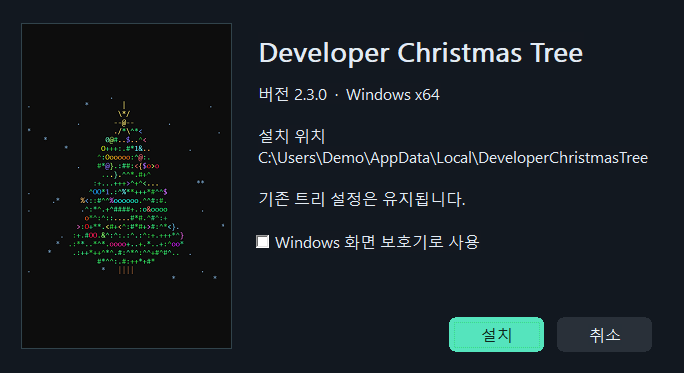
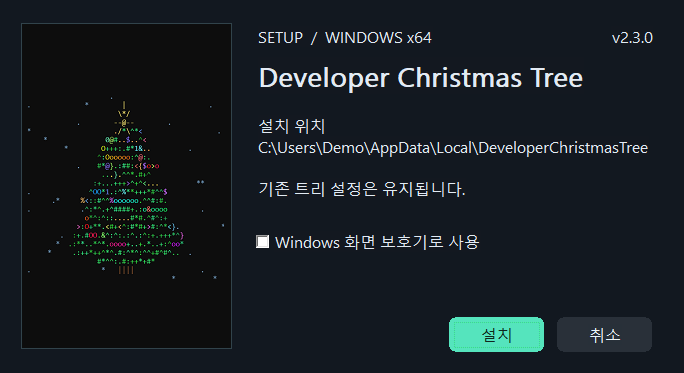
style: use bilingual guidance and put versions in window headers

diff --git a/scripts/windows_smoke.py b/scripts/windows_smoke.py
@@ -113,7 +113,8 @@ def verify_app(app, env, config, version):
     process = start(app, env)
     try:
         hwnd = window(process, "DCTMain")
-        assert version.removesuffix(".0") in text(hwnd)
+        assert text(hwnd) == "Developer Christmas Tree"
+        assert text(USER32.GetDlgItem(hwnd, 161)) == "v" + version
         combo = USER32.GetDlgItem(hwnd, 160)
         assert combo and USER32.SendMessageW(combo, 0x146, 0, 0) == 3
         for index, label in [(1, "1080p"), (2, "4K")]:
@@ -136,10 +137,12 @@ def verify_app(app, env, config, version):
         stop(process)
 
 
-def wizard(setup, env, complete=False, saver=False, fail=False):
+def wizard(setup, env, version, complete=False, saver=False, fail=False):
     process = start(setup, env)
     try:
         hwnd = window(process, "DCTSetup")
+        assert version not in text(hwnd)
+        assert text(USER32.GetDlgItem(hwnd, 104)) == "v" + version
         primary = USER32.GetDlgItem(hwnd, 101)
         assert text(primary) == "설치"
         if complete:
@@ -232,7 +235,7 @@ def verify_setup(setup, app, ui_only, version, legacy):
         destination = local / "DeveloperChristmasTree"
         config = destination / "settings.json"
         baseline = registry(UNINSTALL, "InstallLocation")
-        wizard(setup, env)
+        wizard(setup, env, version)
         assert registry(UNINSTALL, "InstallLocation") == baseline and not destination.exists()
         print("설치 화면 표시 및 취소 통과", flush=True)
         if ui_only:
@@ -244,7 +247,7 @@ def verify_setup(setup, app, ui_only, version, legacy):
         invalid_menu = roaming / "Microsoft"
         invalid_menu.parent.mkdir(parents=True)
         invalid_menu.write_text("시작 메뉴 경로 실패 검증", encoding="utf-8")
-        wizard(setup, env, complete=True, fail=True)
+        wizard(setup, env, version, complete=True, fail=True)
         assert not list(destination.glob("*"))
         assert registry(UNINSTALL, "InstallLocation") is None and desktop_values() == desktop
         invalid_menu.unlink()
@@ -252,7 +255,7 @@ def verify_setup(setup, app, ui_only, version, legacy):
         installed_app = destination / "DeveloperChristmasTree.exe"
         scr = destination / "DeveloperChristmasTree.scr"
         try:
-            wizard(setup, env, complete=True, saver=True)
+            wizard(setup, env, version, complete=True, saver=True)
             assert scr.read_bytes() == installed_app.read_bytes()
             assert SHELL.ExtractIconExW(str(scr), -1, None, None, 0) > 0
             assert registry(UNINSTALL, "DisplayVersion")[0] == version
@@ -275,7 +278,7 @@ def verify_setup(setup, app, ui_only, version, legacy):
                 assert registry(UNINSTALL, "DisplayVersion")[0] == "2.2.0"
                 original = b'{"Theme":"Ice Blue","Message":"holiday","FPS":30}\n'
                 config.write_bytes(original)
-                wizard(setup, env, complete=True)
+                wizard(setup, env, version, complete=True)
                 assert registry(UNINSTALL, "DisplayVersion")[0] == version
                 assert config.read_bytes() == original
                 assert installed_app.read_bytes() == app.read_bytes()

diff --git a/win_windows.go b/win_windows.go
@@ -330,6 +330,7 @@ const (
 	idLowPower    = 158
 	idCodeStyle   = 159
 	idResolution  = 160
+	idVersion     = 161
 )
 
 func selectCombo(id int, items []string, s string) {
@@ -529,8 +530,7 @@ func setupUI() {
 	uiScale = settingsScale(work, int(call(u, "GetDpiForSystem")))
 	x := int(work.L) + (int(work.R-work.L)-sc(1120))/2
 	y := int(work.T) + (int(work.B-work.T)-sc(770))/2
-	versionLabel := strings.TrimSuffix(version, ".0")
-	mainwin = window("DCTMain", "Christmas Tree  •  "+versionLabel, 0x06CA0000, 0, x, y, sc(1120), sc(770), 0, 0)
+	mainwin = window("DCTMain", "Developer Christmas Tree", 0x06CA0000, 0, x, y, sc(1120), sc(770), 0, 0)
 	if mainwin == 0 {
 		box(0, "설정 창을 열 수 없어요.", 0x10)
 		return
@@ -541,10 +541,11 @@ func setupUI() {
 	corner := int32(2)
 	call(dwm, "DwmSetWindowAttribute", mainwin, 33, ptr(&corner), 4)
 	makeSettingsFonts()
-	heading("Christmas Tree", 25, 13, 285, 37, titleFont)
-	label(versionLabel, 312, 25, 100, 23)
-	heading("미리보기", 30, 78, 210, 28, sectionFont)
-	audioStatus = child("STATIC", "", 0, 290, 82, 320, 22, 0)
+	heading("Christmas Tree", 25, 13, 260, 37, titleFont)
+	label("3D ASCII SCREENSAVER  /  LIVE CONFIGURATION", 303, 25, 515, 23)
+	child("STATIC", "v"+version, 2, 987, 25, 102, 23, idVersion)
+	heading("LIVE PREVIEW  ·  실시간 미리보기", 30, 78, 350, 28, sectionFont)
+	audioStatus = child("STATIC", "", 2, 390, 82, 220, 22, 0)
 	p := window("DCTRender", "", wsChild|wsVisible, 0, sc(previewX), sc(previewY), sc(previewW), sc(previewH), mainwin, 0)
 	if p != 0 {
 		settingControls[p] = &settingControl{x: previewX, y: previewY, width: previewW, height: previewH}
@@ -558,7 +559,7 @@ func setupUI() {
 	button(idWindows, 410, 628, 200, "Windows 화면 보호기")
 	label("전체 화면 해상도", 30, 675, 135, 24)
 	combo(idResolution, 166, 672, fullscreenResolutions)
-	label("H  ·  전체 화면 단축키", 412, 675, 195, 24)
+	label("H  ·  SHORTCUTS", 412, 675, 195, 24)
 	button(idVisualPage, 649, 78, 210, "트리와 조명")
 	button(idAudioPage, 869, 78, 207, "음악과 효과")
 	buildPage = 1

diff --git a/setup/wizard_windows.go b/setup/wizard_windows.go
@@ -21,6 +21,7 @@ const (
 	setupInstall = 101
 	setupSaver   = 102
 	setupClose   = 103
+	setupVersion = 104
 	setupUpdate  = 0x8001
 )
 
@@ -68,6 +69,7 @@ type setupResult struct {
 
 type wizard struct {
 	hwnd, instance, background, panel uintptr
+	kicker, versionLabel              uintptr
 	heading, detail, status, option   uintptr
 	primary, close                    uintptr
 	font, title                       uintptr
@@ -152,8 +154,10 @@ func setupWindow(dir, menu string) {
 	}()
 	dark := int32(1)
 	invoke(syscall.NewLazyDLL("dwmapi.dll"), "DwmSetWindowAttribute", w.hwnd, 20, uintptr(unsafe.Pointer(&dark)), 4)
+	w.kicker = w.control("STATIC", "SETUP  /  WINDOWS x64", 0, 0)
+	w.versionLabel = w.control("STATIC", "v"+version, 2, setupVersion)
 	w.heading = w.control("STATIC", "Developer Christmas Tree", 0, 0)
-	w.detail = w.control("STATIC", fmt.Sprintf("버전 %s  ·  Windows x64\r\n\r\n설치 위치\r\n%s\r\n\r\n기존 트리 설정은 유지됩니다.", version, dir), 0, 0)
+	w.detail = w.control("STATIC", fmt.Sprintf("설치 위치\r\n%s\r\n\r\n기존 트리 설정은 유지됩니다.", dir), 0, 0)
 	w.option = w.control("BUTTON", "Windows 화면 보호기로 사용", 0x10003, setupSaver)
 	w.status = w.control("STATIC", "", 0, 0)
 	w.primary = w.control("BUTTON", "설치", 0x1000B, setupInstall)
@@ -206,8 +210,10 @@ func (w *wizard) layout() {
 		invoke(u, "MoveWindow", h, x(left), y(top), x(sw), y(sh), 1)
 		invoke(u, "SendMessageW", h, 0x30, font, 1)
 	}
-	move(w.heading, w.title, 257, 32, 405, 43)
-	move(w.detail, w.font, 257, 83, 395, 145)
+	move(w.kicker, w.font, 257, 26, 290, 25)
+	move(w.versionLabel, w.font, 551, 26, 99, 25)
+	move(w.heading, w.title, 257, 57, 405, 43)
+	move(w.detail, w.font, 257, 115, 395, 107)
 	move(w.option, w.font, 255, 226, 395, 30)
 	move(w.status, w.font, 257, 261, 395, 50)
 	move(w.primary, w.font, 447, 315, 96, 36)

diff --git a/docs/WINDOWS_QA.md b/docs/WINDOWS_QA.md
@@ -4,10 +4,10 @@
 
 - [x] Windows 11에서 새 설치 창 표시 및 취소.
 - [x] Windows 11에서 1080p와 4K 설정 선택·저장, F11 전체 화면, Space·H·Esc 메시지 동작.
-- [ ] Windows 10 실기 설치·실행 및 혼합 DPI 모니터 이동.
+- [x] Windows Actions에서 새 설치·실패 복원·화면 보호기 등록과 복원·제거·기존 v2.2 덮어쓰기.
+- [x] Windows 11의 100%·125% 모니터 사이에서 설정 창과 설치 창을 왕복 이동하고 주요 컨트롤의 경계 확인.
+- [ ] Windows 10 실기 설치·실행, 150%·200% 배율에서의 UI 확인.
 - [ ] 네이티브 4K 모니터의 렌더링과 동일 조건 v2.2 프레임 시간 비교, 30분 리소스 추적.
-
-Windows Actions는 새 설치·실패 복원·화면 보호기 등록과 복원·제거·기존 v2.2 덮어쓰기를 별도로 실행합니다.
 
 ## 완료 (Linux 개발 환경)
 

diff --git a/CHANGELOG.md b/CHANGELOG.md
@@ -6,6 +6,7 @@
 - 코드 스타일은 트리 자체의 장식 문자에 적용됩니다.
 - 일반 전체 화면에 자동·1080p·4K 렌더링 해상도 선택과 설정 저장을 추가했습니다.
 - 새 트리 아이콘과 이미지가 포함된 한국어 설치 창을 추가했습니다. 설치 실패 시 변경한 앱 파일, 바로가기와 등록 정보를 복원하도록 처리했습니다.
+- `LIVE PREVIEW`, `SHORTCUTS` 등의 안내를 영어로 표시하고, 버전 표시는 설정 창과 설치 창의 상단으로 통일했습니다.
 - 설정 창의 모니터 배율이 바뀔 때 컨트롤과 글꼴을 다시 배치합니다.
 
 ## 배포 복원
